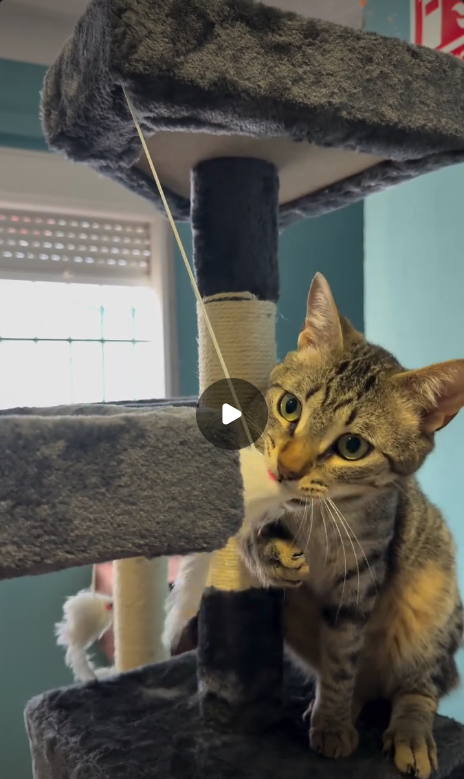
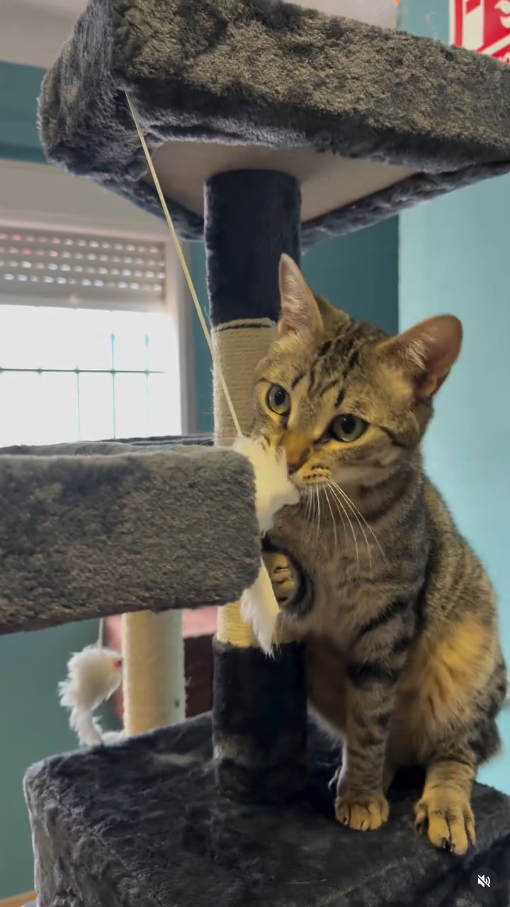
photoupadted

diff --git a/src/app/page.tsx b/src/app/page.tsx
@@ -257,7 +257,7 @@ export default function Home() {
                             url="https://www.instagram.com/p/DXhglS5CMwa/"
                             delay={0.1} 
                             caption={"Gracias a vuestras donaciones nuestros gatetes pueden jugar con sus nuevos rascadores, gracias siempre 🙏🏻 Toda ayuda es poca y más en la temporada de nacimientos que estamos 🐈🐈⬛🍼#adoptanocompres #gatos #gatitos #salvaunavida #donating"}                            
-                            imageUrl={"/instagramPost1.png"}
+                            imageUrl={"/InstagramPost1.png"}
                         />
                         <InstagramCard
                             url="https://www.instagram.com/p/DXhglS5CMwa/"